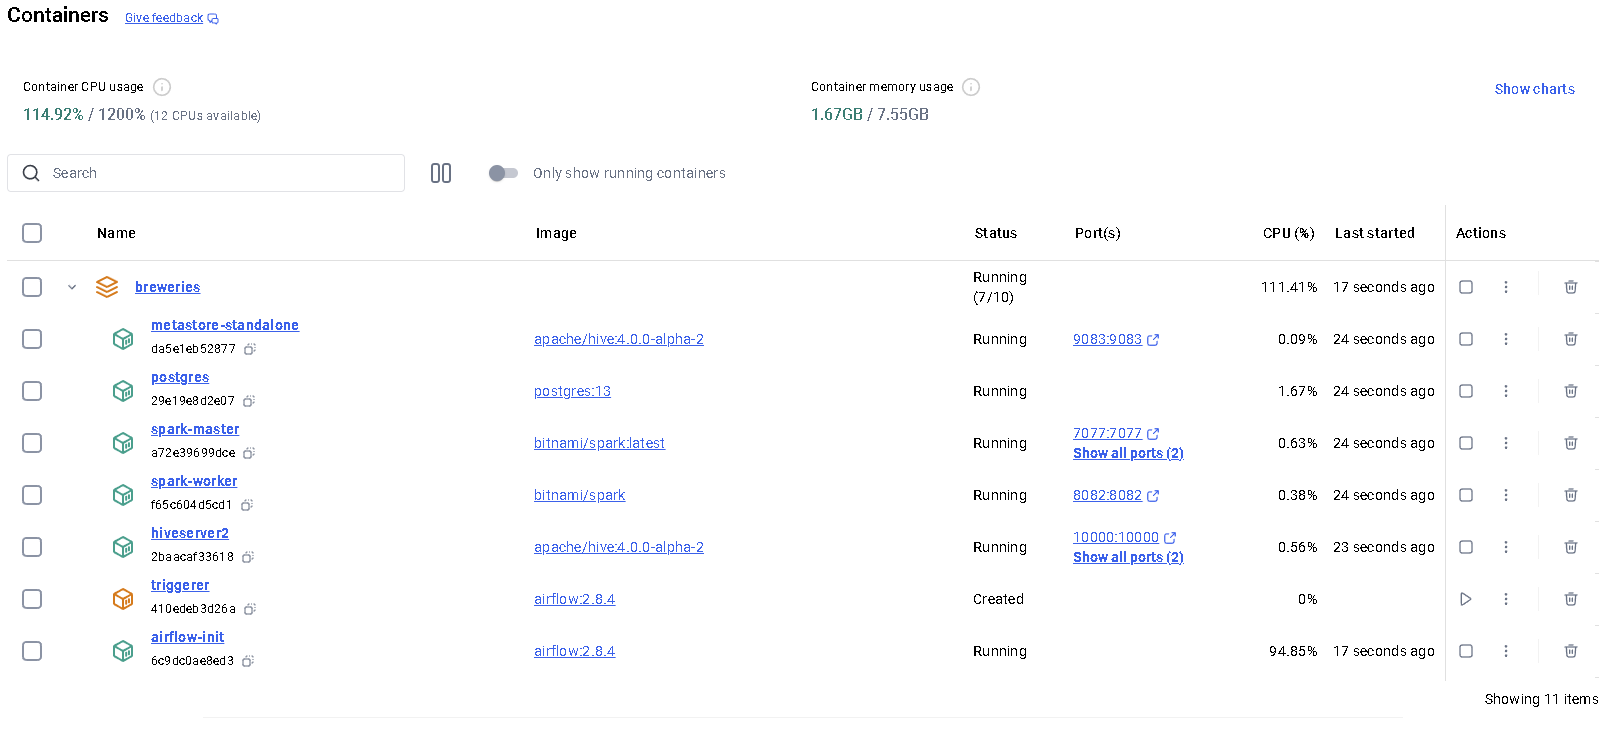
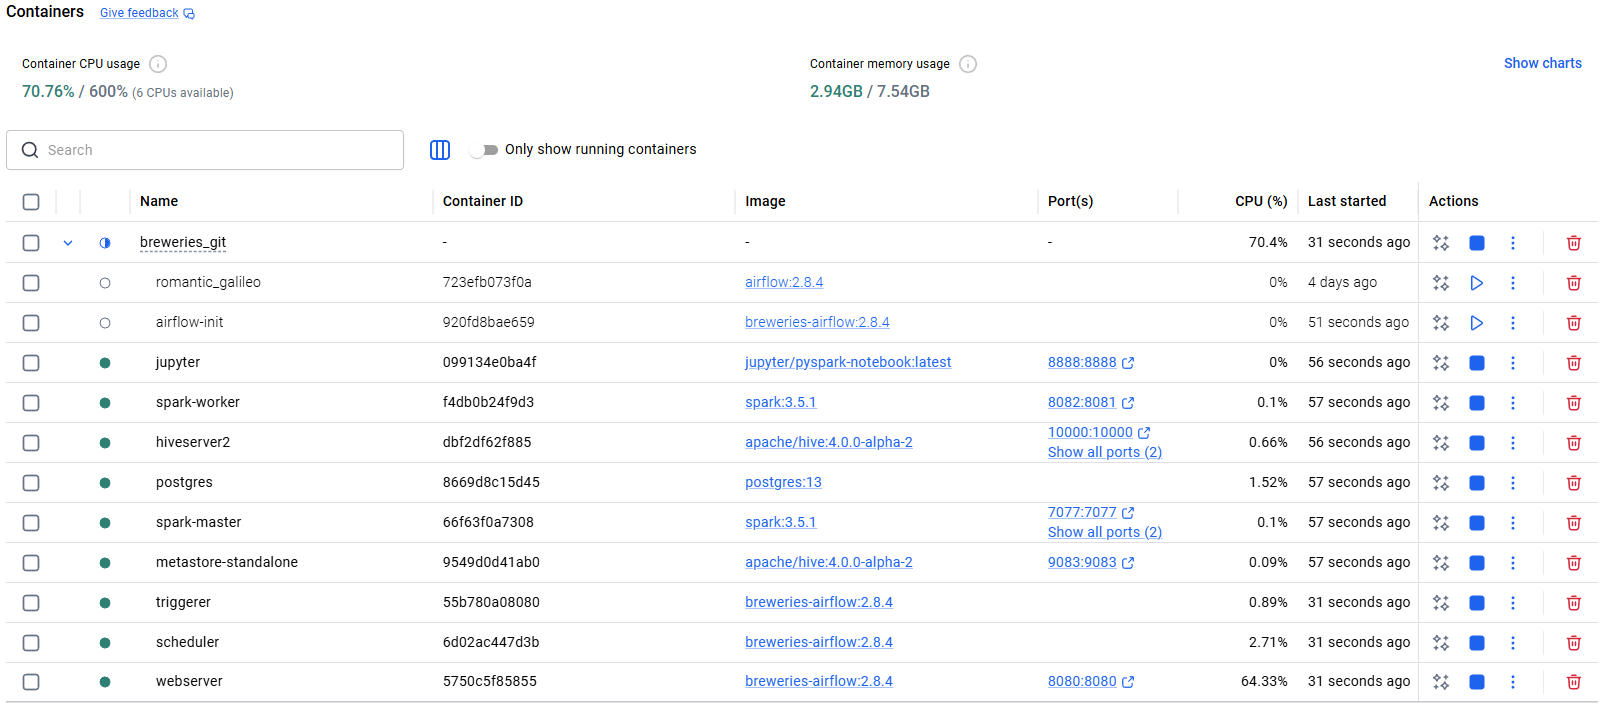
Ajuste readme

diff --git a/README.md b/README.md
@@ -56,22 +56,13 @@ After starting the containers, you can access the services through the following
 **Username:** airflow  
 **Password:** airflow
 - Go To [http://localhost:8080](http://localhost:8080)
-![image](https://github.com/aaliashraf/airflow-spark-hive-azure-docker-workflow/assets/56219554/a79ca824-72c7-4dfa-aca6-41186e0e3553)
-
-
-- Example Airflow DAG Web UI displaying a running workflow.
-![image](https://github.com/aaliashraf/airflow-spark-hive-azure-docker-workflow/assets/56219554/3fc69ff7-8c24-452f-b920-79d6c963755f)
-
-
-
-
-
+![image](https://github.com/vitoramarante94/breweries_git/blob/main/imagens/airflow_services.png)
 
 
 ### Spark
 
 - Go To [http://localhost:8181](http://localhost:8181)
-![image](https://github.com/aaliashraf/airflow-spark-hive-azure-docker-workflow/assets/56219554/b3790ed2-d478-469f-b70c-b8628bd93c01)
+![image](https://github.com/vitoramarante94/breweries_git/blob/main/imagens/spark_services.png)
 
 
 
@@ -105,25 +96,223 @@ After starting the containers, you can access the services through the following
 
 - Here is the Airflow DAG script to call the ingestion functions for bronze, silver, and gold layers, defining the load schedule, retries, and task execution order.
 
-![image](https://github.com/vitoramarante94/breweries_git/blob/main/imagens/dag_orquestrador_script.png)
+```python
+import os
+import sys
+from airflow import DAG
+from airflow.utils.email import send_email
+from datetime import datetime, timedelta
+from airflow.operators.python import PythonOperator
+
+sys.path.insert(0, os.path.dirname(os.path.dirname(os.path.abspath(__file__))))
+from src.bronze import ingestao_bronze
+from src.silver import ingestao_silver
+from src.gold import ingestao_gold
+from src.validations import validate_bronze, validate_silver
+
+
+def notify_failure(context):
+  task_id = context["task_instance"].task_id
+  dag_id  = context["task_instance"].dag_id
+  log_url = context["task_instance"].log_url
+  send_email(
+    to="vitoramarante.94@gmail.com",
+    subject=f"[AIRFLOW FAILURE] {dag_id} > {task_id}",
+    html_content=(
+      f"Task <b>{task_id}</b> in DAG <b>{dag_id}</b> failed after all retries.<br>"
+      f"Logs: <a href='{log_url}'>{log_url}</a>"
+    ),
+  )
+
+default_args = {
+  "on_failure_callback": notify_failure,
+  "retries": 1,
+  "retry_delay": timedelta(seconds=15),
+}
+
+with DAG(
+  'orquestrador',
+  start_date=datetime(2026, 4, 1),
+  schedule_interval='@once',
+  catchup=False,
+  default_args=default_args,
+) as dag:
+
+  ingest_bronze = PythonOperator(
+    task_id='ingestao_bronze',
+    python_callable=ingestao_bronze,
+  )
+
+  check_bronze = PythonOperator(
+    task_id='validacao_bronze',
+    python_callable=validate_bronze,
+  )
+
+  ingest_silver = PythonOperator(
+    task_id='ingestao_silver',
+    python_callable=ingestao_silver,
+  )
+
+  check_silver = PythonOperator(
+    task_id='validacao_silver',
+    python_callable=validate_silver,
+  )
+
+  ingest_gold = PythonOperator(
+    task_id='ingestao_gold',
+    python_callable=ingestao_gold,
+  )
+
+  ingest_bronze >> check_bronze >> ingest_silver >> check_silver >> ingest_gold
+```
 
 ## Bronze layer
 
 - In the bronze layer, we make paginated requests to the API [https://api.openbrewerydb.org/v1/breweries](https://api.openbrewerydb.org/v1/breweries), fetching 100 records per page and iterating until the API returns an empty page, so the full dataset is always captured regardless of size. The collected records are assembled with pandas and saved as a newline-delimited JSON file at `/tmp/breweries.json`. Ideally, the ingestion would be done in a Data Lake in a Bronze container, but in this project, I had some difficulties ingesting into HDFS.
 
-![image](https://github.com/vitoramarante94/breweries_git/blob/main/imagens/bronze.png)
+```python
+import pandas as pd
+import requests
+from itertools import count
+
+def ingestao_bronze():
+  # Buscar dados da API com paginacao
+  per_page = 100
+  data = []
+
+  for page in count(1):
+    params = {"page": page, "per_page": per_page}
+    response = requests.get("https://api.openbrewerydb.org/v1/breweries", params=params)
+    response.raise_for_status()
+    page_data = response.json()
+
+    if not page_data:
+      break
+
+    data.extend(page_data)
+
+  # Converter a lista de dados em um DataFrame do Pandas
+  df = pd.DataFrame(data)
+
+  # Salvar o DataFrame no formato JSON
+  df.to_json("/tmp/breweries.json", orient="records", lines=True)
+```
 
 ## Silver layer
 
 - To perform the ingestion in the silver layer, I use Spark for processing and the Hive Metastore to persist the data in parquet format. In this script, I start a Spark session, define the structure of the source JSON file that is in the Bronze layer, read this file by passing the schema and transforming it into a dataframe, and finally make a change to the longitude and latitude columns to the DECIMAL format. Before writing this file to Hive, I define the table name and database, and create the database if it does not exist. After that, I save the file in parquet format.
 
-![image](https://github.com/vitoramarante94/breweries_git/blob/main/imagens/silver.png)
+```python
+import os
+from pyspark.sql.types import StructType, StructField, StringType, DecimalType
+from pyspark.sql.functions import col
+from pyspark.sql import SparkSession
+
+def ingestao_silver():
+
+  # Keep managed table data in a writable mounted directory.
+  warehouse_root = "/opt/airflow/src/warehouse"
+  os.makedirs(warehouse_root, exist_ok=True)
+
+  # Initialize Spark session
+  spark = (
+    SparkSession.builder.appName("etl_spark_hive")
+    .config("spark.hadoop.hive.metastore.uris", "thrift://metastore:9083")
+    .config("spark.sql.warehouse.dir", warehouse_root)
+    .enableHiveSupport()
+    .getOrCreate()
+  )
+
+  schema = StructType([
+    StructField("id", StringType()),
+    StructField("name", StringType()),
+    StructField("brewery_type", StringType()),
+    StructField("address_1", StringType()),
+    StructField("address_2", StringType()),
+    StructField("address_3", StringType()),
+    StructField("city", StringType()),
+    StructField("state_province", StringType()),
+    StructField("postal_code", StringType()),
+    StructField("country", StringType()),
+    StructField("longitude", StringType()),
+    StructField("latitude", StringType()),
+    StructField("phone", StringType()),
+    StructField("website_url", StringType()),
+    StructField("state", StringType()),
+    StructField("street", StringType())
+  ])
+
+  # Convert the JSON data to a DataFrame
+  df = spark.read.schema(schema).json("/tmp/breweries.json")
+
+  decimal_type = DecimalType(18, 15)
+  df = (df.withColumn("longitude", col("longitude").cast(decimal_type))
+      .withColumn("latitude", col("latitude").cast(decimal_type))
+  )
+
+  df.show()
+
+  table = "breweries"
+  database = "silver"
+  db_path = f"{warehouse_root}/{database}.db"
+  table_path = f"{db_path}/{table}"
+
+  spark.sql(f"CREATE DATABASE IF NOT EXISTS {database} LOCATION '{db_path}'")
+
+  # Save as Hive table with explicit location to avoid permission issues in default warehouse path.
+  (
+    df.write.mode("overwrite")
+    .format("parquet")
+    .option("path", table_path)
+    .saveAsTable(f"{database}.{table}")
+  )
+
+  spark.stop()
+```
 
 ## Gold layer
 
 - In the gold layer, I use Spark and Hive again, creating a dedicated database for the gold layer. The idea is that this database contains only ready-to-consume data, with aggregations, joins, and transformations. This database will store views and materializations. In the script, we read the table generated in the Silver database and create a view in the gold database, aggregating the breweries by type and country. After that, we perform a select on this view to display the result in the log.
 
-![image](https://github.com/vitoramarante94/breweries_git/blob/main/imagens/gold.png)
+```python
+from pyspark.sql import SparkSession
+
+def ingestao_gold():
+
+  # Initialize Spark session
+  spark = (
+    SparkSession.builder.appName("etl_spark_hive")
+    .config("spark.hadoop.hive.metastore.uris", "thrift://metastore:9083")
+    .config("spark.sql.warehouse.dir", "/opt/airflow/metastore")
+    .enableHiveSupport()
+    .getOrCreate()
+  )
+
+  source_database = "silver"
+  dest_database = "gold"
+
+  spark.sql(f"CREATE DATABASE IF NOT EXISTS {dest_database}")
+
+  query = (f'''
+  CREATE OR REPLACE VIEW {dest_database}.vw_qnt_breweries_local_type
+  AS
+  SELECT
+    brewery_type,
+    country,
+    COUNT(*) AS quantity
+  FROM
+  {source_database}.breweries
+  GROUP BY brewery_type, country
+  ORDER BY country, brewery_type;
+  ''')
+  spark.sql(query).show()
+
+  df = spark.sql(f"SELECT * FROM {dest_database}.vw_qnt_breweries_local_type")
+
+  df.show()
+
+  spark.stop()
+```
 
 ## DAG Execution
 
